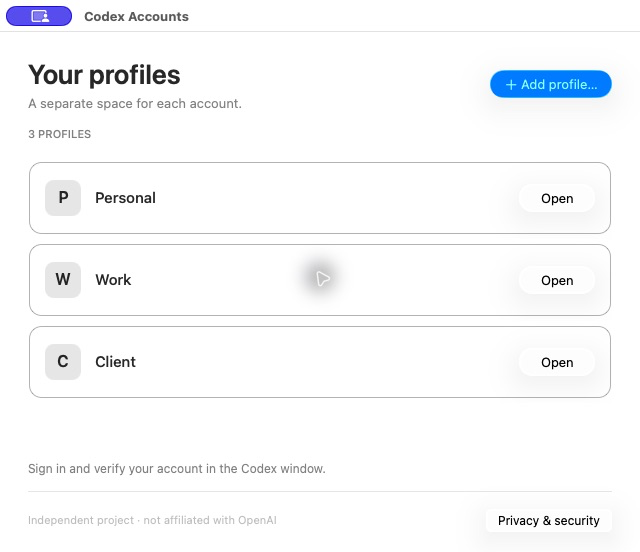
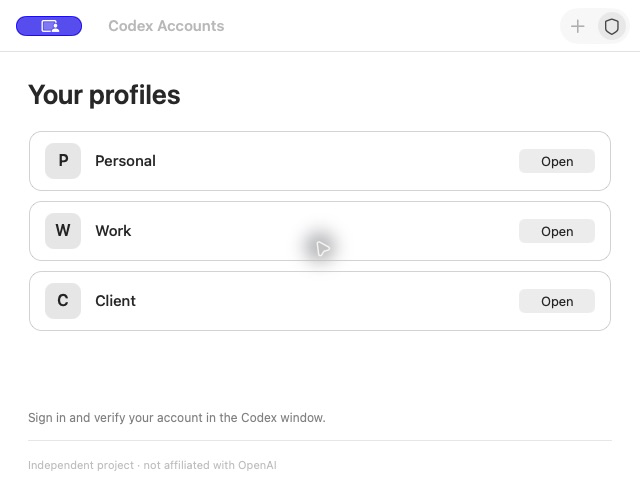
Use a native Liquid Glass toolbar for profile actions

diff --git a/Sources/main.swift b/Sources/main.swift
@@ -9,7 +9,11 @@ final class ProfileCardView: NSView {
         let path = NSBezierPath(roundedRect: bounds.insetBy(dx: 0.5, dy: 0.5), xRadius: 12, yRadius: 12)
         NSColor.controlBackgroundColor.setFill()
         path.fill()
-        NSColor.separatorColor.withAlphaComponent(0.55).setStroke()
+        if #available(macOS 26.0, *) {
+            NSColor.separatorColor.withAlphaComponent(0.32).setStroke()
+        } else {
+            NSColor.separatorColor.withAlphaComponent(0.55).setStroke()
+        }
         path.lineWidth = 0.5
         path.stroke()
     }
@@ -21,7 +25,7 @@ final class ProfileCardView: NSView {
 }
 
 @MainActor
-final class AppDelegate: NSObject, NSApplicationDelegate, NSTableViewDataSource, NSTableViewDelegate {
+final class AppDelegate: NSObject, NSApplicationDelegate, NSTableViewDataSource, NSTableViewDelegate, NSToolbarDelegate {
     var window: NSWindow!
     let table = NSTableView()
     let status = NSTextField(wrappingLabelWithString: "")
@@ -31,6 +35,9 @@ final class AppDelegate: NSObject, NSApplicationDelegate, NSTableViewDataSource,
         didSet { updateControls() }
     }
     let addButton = NSButton()
+    private let addItemID = NSToolbarItem.Identifier("addProfile")
+    private let privacyItemID = NSToolbarItem.Identifier("privacy")
+    private weak var addToolbarItem: NSToolbarItem?
     let countLabel = NSTextField(labelWithString: "")
     let emptyState = NSStackView()
 
@@ -67,11 +74,6 @@ final class AppDelegate: NSObject, NSApplicationDelegate, NSTableViewDataSource,
         addButton.imagePosition = .imageLeading
         addButton.bezelStyle = .rounded
         addButton.controlSize = .large
-        if #available(macOS 26.0, *) {
-            addButton.bezelStyle = .glass
-            addButton.bezelColor = .controlAccentColor
-            addButton.tintProminence = .primary
-        }
         addButton.target = self
         addButton.action = #selector(addProfile)
         addButton.setAccessibilityLabel("Add a new profile")
@@ -127,10 +129,6 @@ final class AppDelegate: NSObject, NSApplicationDelegate, NSTableViewDataSource,
         privacy.bezelStyle = .inline
         privacy.isBordered = false
         privacy.font = .systemFont(ofSize: 12)
-        if #available(macOS 26.0, *) {
-            privacy.isBordered = true
-            privacy.bezelStyle = .glass
-        }
         let independent = NSTextField(labelWithString: "Independent project · not affiliated with OpenAI")
         independent.textColor = .tertiaryLabelColor
         independent.font = .systemFont(ofSize: 11)
@@ -139,6 +137,19 @@ final class AppDelegate: NSObject, NSApplicationDelegate, NSTableViewDataSource,
         let separator = NSBox()
         separator.boxType = .separator
         let stack = NSStackView(views: [header, countLabel, scroll, status, separator, footer])
+        if #available(macOS 26.0, *) {
+            let toolbar = NSToolbar(identifier: "Profile actions")
+            toolbar.delegate = self
+            toolbar.displayMode = .iconOnly
+            window.toolbarStyle = .unified
+            window.toolbar = toolbar
+            addButton.isHidden = true
+            privacy.isHidden = true
+            subtitle.isHidden = true
+            countLabel.isHidden = true
+            table.rowHeight = 64
+            window.setContentSize(NSSize(width: 640, height: 440))
+        }
         stack.orientation = .vertical
         stack.alignment = .leading
         stack.spacing = 16
@@ -162,6 +173,37 @@ final class AppDelegate: NSObject, NSApplicationDelegate, NSTableViewDataSource,
     }
 
     func applicationShouldTerminateAfterLastWindowClosed(_ sender: NSApplication) -> Bool { true }
+
+    func toolbarAllowedItemIdentifiers(_ toolbar: NSToolbar) -> [NSToolbarItem.Identifier] {
+        [.flexibleSpace, addItemID, privacyItemID]
+    }
+
+    func toolbarDefaultItemIdentifiers(_ toolbar: NSToolbar) -> [NSToolbarItem.Identifier] {
+        toolbarAllowedItemIdentifiers(toolbar)
+    }
+
+    func toolbar(_ toolbar: NSToolbar, itemForItemIdentifier itemIdentifier: NSToolbarItem.Identifier,
+                 willBeInsertedIntoToolbar flag: Bool) -> NSToolbarItem? {
+        let item = NSToolbarItem(itemIdentifier: itemIdentifier)
+        item.target = self
+        switch itemIdentifier {
+        case addItemID:
+            item.label = "Add profile"
+            item.image = NSImage(systemSymbolName: "plus", accessibilityDescription: "Add profile")
+            item.action = #selector(addProfile)
+            item.autovalidates = false
+            item.isEnabled = !busy
+            addToolbarItem = item
+        case privacyItemID:
+            item.label = "Privacy & security"
+            item.image = NSImage(systemSymbolName: "shield", accessibilityDescription: "Privacy & security")
+            item.action = #selector(showPrivacy)
+        default:
+            return nil
+        }
+        item.toolTip = item.label
+        return item
+    }
     func numberOfRows(in tableView: NSTableView) -> Int { profiles.count }
     func selectionShouldChange(in tableView: NSTableView) -> Bool { false }
 
@@ -200,7 +242,7 @@ final class AppDelegate: NSObject, NSApplicationDelegate, NSTableViewDataSource,
         open.bezelStyle = .rounded
         open.controlSize = .large
         if #available(macOS 26.0, *) {
-            open.bezelStyle = .glass
+            open.controlSize = .regular
         }
         open.identifier = NSUserInterfaceItemIdentifier(profile.id.uuidString)
         open.setAccessibilityLabel("Open \(profile.name) in Codex")
@@ -228,6 +270,7 @@ final class AppDelegate: NSObject, NSApplicationDelegate, NSTableViewDataSource,
 
     func updateControls() {
         addButton.isEnabled = !busy
+        addToolbarItem?.isEnabled = !busy
         table.reloadData()
     }
 

diff --git a/scripts/showcase-scene.swift b/scripts/showcase-scene.swift
@@ -92,6 +92,10 @@ MainActor.assumeIsolated {
     checks += 1
     delegate.busy = true
     precondition(!delegate.addButton.isEnabled && !rowButton(0).isEnabled, "Disable launch/add while busy.")
+    if #available(macOS 26.0, *) {
+        let add = delegate.window.toolbar?.items.first { $0.itemIdentifier.rawValue == "addProfile" }
+        precondition(add?.isEnabled == false, "Disable the toolbar Add profile action while busy.")
+    }
     checks += 1
     delegate.busy = false
     delegate.profiles = []

diff --git a/README.md b/README.md
@@ -9,17 +9,17 @@
   <img src="assets/badge-macos.svg" alt="macOS 13 or later · universal binary">
 </p>
 <p align="center">
-  <a href="https://github.com/dngns/codex-accounts/releases/tag/v0.1.6-preview.1"><img src="assets/download.svg" width="256" alt="Download macOS preview"></a>
+  <a href="https://github.com/dngns/codex-accounts/releases/tag/v0.1.7-preview.1"><img src="assets/download.svg" width="256" alt="Download macOS preview"></a>
 </p>
 <p align="center">
   <a href="#get-started">Get started</a> · <a href="#your-login-stays-with-the-official-app">Privacy</a> · <a href="docs/TECHNICAL.md">Technical docs</a> · <a href="docs/README.vi.md">Tiếng Việt</a>
 </p>
 
 > [!IMPORTANT]
-> **Experimental preview · independent of OpenAI.** The download is not notarized and macOS may block it. [Read the release notes](https://github.com/dngns/codex-accounts/releases/tag/v0.1.6-preview.1) before downloading. Do not disable Gatekeeper to run it.
+> **Experimental preview · independent of OpenAI.** The download is not notarized and macOS may block it. [Read the release notes](https://github.com/dngns/codex-accounts/releases/tag/v0.1.7-preview.1) before downloading. Do not disable Gatekeeper to run it.
 
 ![Codex Accounts on macOS 26 with Liquid Glass controls and three example profiles](assets/profile-ui-liquid-glass.png)
-<p align="center"><sub>Version 0.1.6 on macOS 26.2 in Light Mode, with example profiles.</sub></p>
+<p align="center"><sub>Version 0.1.7 on macOS 26.2 in Light Mode, with example profiles.</sub></p>
 
 ### Personal. Work. Client. One small launcher.
 
@@ -29,14 +29,14 @@ Keep a separate place for each account without repeatedly swapping the default p
 | :--- | :--- | :--- |
 | A dedicated Codex home and desktop data folder for every profile. | Use the official OpenAI sign-in flow. The launcher has no password form. | Native Swift app. No Node, Python, Homebrew, or Terminal needed to use a packaged build. |
 
-On macOS 26 and later, Add profile, Open, and Privacy & security use native Liquid Glass controls. macOS 13 through 15 use standard AppKit controls.
+On macOS 26 and later, the native Liquid Glass toolbar groups Add profile (+) and Privacy & security. Each profile has its own Open button. macOS 13 through 15 use standard AppKit controls.
 
 ## Get started
 
 ![Three steps: name a profile, open it, then sign in through the official app](assets/quickstart.png)
 
 1. **Install the official Codex desktop app** from OpenAI, then download and unzip this launcher.
-2. **Add a profile** such as Personal or Work. Click **Open** beside the profile you want to use.
+2. Use **Add profile** (the + button on macOS 26) to create a profile such as Personal or Work. Click **Open** beside the profile you want to use.
 3. **Sign in inside the official app.** Verify the email and workspace, then repeat for another account. Sign in to new profiles one at a time.
 
 You can move **Codex Accounts.app** into Applications. This launcher does not import or change your existing default account.
@@ -45,8 +45,8 @@ You can move **Codex Accounts.app** into Applications. This launcher does not im
 
 | Package | Platform | Download |
 | :--- | :--- | :--- |
-| **0.1.6 Preview · Universal ZIP** | macOS 13+ · Apple Silicon and Intel build targets | [Download app](https://github.com/dngns/codex-accounts/releases/download/v0.1.6-preview.1/Codex-Accounts-preview-universal.zip) |
-| **SHA-256 checksums** | Verify archive integrity | [Download SHA256SUMS](https://github.com/dngns/codex-accounts/releases/download/v0.1.6-preview.1/SHA256SUMS) |
+| **0.1.7 Preview · Universal ZIP** | macOS 13+ · Apple Silicon and Intel build targets | [Download app](https://github.com/dngns/codex-accounts/releases/download/v0.1.7-preview.1/Codex-Accounts-preview-universal.zip) |
+| **SHA-256 checksums** | Verify archive integrity | [Download SHA256SUMS](https://github.com/dngns/codex-accounts/releases/download/v0.1.7-preview.1/SHA256SUMS) |
 
 **Before you install:** the official Codex app is required. This preview is ad-hoc signed, not Developer ID signed or notarized. Intel runtime, full multi-account login, and clean-Mac download acceptance are still pending. [Validation record →](VALIDATION.md)
 

diff --git a/RELEASE_NOTES.md b/RELEASE_NOTES.md
@@ -1,8 +1,8 @@
 <p align="center">
   <img src="https://raw.githubusercontent.com/dngns/codex-accounts/main/assets/AppIcon.png" width="80" alt="Codex Accounts icon">
 </p>
-<h2 align="center">Native Liquid Glass controls</h2>
-<p align="center">Codex Accounts 0.1.6 Preview · Native macOS launcher · Independent of OpenAI</p>
+<h2 align="center">A cleaner Liquid Glass toolbar</h2>
+<p align="center">Codex Accounts 0.1.7 Preview · Native macOS launcher · Independent of OpenAI</p>
 
 
 ## Download for macOS
@@ -11,8 +11,8 @@ One universal app package for Apple Silicon and Intel build targets. Requires ma
 
 | File | For | Download |
 | :--- | :--- | :--- |
-| **Codex Accounts.app · ZIP** | Use the launcher | [Download universal preview](https://github.com/dngns/codex-accounts/releases/download/v0.1.6-preview.1/Codex-Accounts-preview-universal.zip) |
-| **SHA256SUMS** | Verify archive integrity | [Download checksums](https://github.com/dngns/codex-accounts/releases/download/v0.1.6-preview.1/SHA256SUMS) |
+| **Codex Accounts.app · ZIP** | Use the launcher | [Download universal preview](https://github.com/dngns/codex-accounts/releases/download/v0.1.7-preview.1/Codex-Accounts-preview-universal.zip) |
+| **SHA256SUMS** | Verify archive integrity | [Download checksums](https://github.com/dngns/codex-accounts/releases/download/v0.1.7-preview.1/SHA256SUMS) |
 
 > [!IMPORTANT]
 > **Preview, not notarized.** This package is ad-hoc signed, not Developer ID signed. macOS may block the download. Keep Gatekeeper enabled; do not remove quarantine to run it. A frictionless downloaded double-click release is still pending.
@@ -25,10 +25,11 @@ One universal app package for Apple Silicon and Intel build targets. Requires ma
 2. Choose **Add profile**, enter a label, then click **Open** beside that profile.
 3. Sign in through the official app and verify the email/workspace. Repeat for another account, one sign-in at a time.
 
-## What's new in 0.1.6
+## What's new in 0.1.7
 
-- **Liquid Glass on macOS 26 and later.** Add profile, the per-profile Open buttons, and Privacy & security use the system glass material. Add profile uses your system accent color.
-- **macOS 13–15 support.** The same controls use their standard AppKit styles on older releases.
+- **Native Liquid Glass toolbar.** Add profile and Privacy & security are grouped beside the window title.
+- **Clearer profile actions.** Profile rows are more compact on macOS 26, with readable Open buttons and lighter outlines.
+- **macOS 13–15 support.** On earlier systems, Add profile appears in the header and Privacy & security appears in the footer.
 
 The launcher still creates separate profile folders, verifies the selected official app's signature, and leaves authentication to that app. It has no built-in networking, telemetry, password form, or token import.
 
@@ -52,4 +53,4 @@ The showcase is a source-derived native UI render with fixture labels, not proof
 
 ---
 
-[Source at this version](https://github.com/dngns/codex-accounts/tree/v0.1.6-preview.1) · [Changes since 0.1.5](https://github.com/dngns/codex-accounts/compare/v0.1.5-preview.1...v0.1.6-preview.1) · [Security](https://github.com/dngns/codex-accounts/blob/main/SECURITY.md) · [Licensing](https://github.com/dngns/codex-accounts/blob/main/LICENSING.md) · [Validation](https://github.com/dngns/codex-accounts/blob/main/VALIDATION.md)
+[Source at this version](https://github.com/dngns/codex-accounts/tree/v0.1.7-preview.1) · [Changes since 0.1.6](https://github.com/dngns/codex-accounts/compare/v0.1.6-preview.1...v0.1.7-preview.1) · [Security](https://github.com/dngns/codex-accounts/blob/main/SECURITY.md) · [Licensing](https://github.com/dngns/codex-accounts/blob/main/LICENSING.md) · [Validation](https://github.com/dngns/codex-accounts/blob/main/VALIDATION.md)

diff --git a/docs/README.vi.md b/docs/README.vi.md
@@ -1,30 +1,30 @@
 # Codex Accounts
 
-[English](../README.md) · [Tải bản preview](https://github.com/dngns/codex-accounts/releases/tag/v0.1.6-preview.1)
+[English](../README.md) · [Tải bản preview](https://github.com/dngns/codex-accounts/releases/tag/v0.1.7-preview.1)
 
 **Mỗi tài khoản một profile riêng.** Launcher nhỏ cho macOS, dùng cùng ứng dụng Codex chính thức.
 
 ![Codex Accounts trên macOS 26 với các nút Liquid Glass và ba profile mẫu](../assets/profile-ui-liquid-glass.png)
 
-*Bản 0.1.6 trên macOS 26.2 ở chế độ sáng, với các profile mẫu.*
+*Bản 0.1.7 trên macOS 26.2 ở chế độ sáng, với các profile mẫu.*
 
 > [!IMPORTANT]
 > Đây là bản thử nghiệm độc lập, không được OpenAI bảo trợ. App chưa được ký Developer ID hoặc notarize, nên macOS có thể chặn bản tải xuống. Không tắt Gatekeeper hoặc xóa quarantine để chạy bản thử.
 
-Trên macOS 26 trở lên, các nút Add profile, Open và Privacy & security dùng Liquid Glass của hệ thống. Trên macOS 13 đến 15, app dùng kiểu nút AppKit tiêu chuẩn.
+Trên macOS 26 trở lên, thanh công cụ Liquid Glass gom nút thêm profile (+) và quyền riêng tư. Mỗi profile có nút Open riêng. Trên macOS 13 đến 15, app dùng kiểu nút AppKit tiêu chuẩn.
 
 ## Bắt đầu trong 3 bước
 
 ![Đặt tên profile, mở profile và đăng nhập trong app chính thức](../assets/quickstart.png)
 
-1. Cài app Codex chính thức từ OpenAI. Tải và giải nén launcher từ [Releases](https://github.com/dngns/codex-accounts/releases/tag/v0.1.6-preview.1).
-2. Mở **Codex Accounts.app** → **Add profile**, đặt tên như Personal hoặc Work → nhấn **Open** cạnh profile đó.
+1. Cài app Codex chính thức từ OpenAI. Tải và giải nén launcher từ [Releases](https://github.com/dngns/codex-accounts/releases/tag/v0.1.7-preview.1).
+2. Mở **Codex Accounts.app** → **Add profile** (nút + trên macOS 26), đặt tên như Personal hoặc Work → nhấn **Open** cạnh profile đó.
 3. Đăng nhập trong app chính thức, kiểm tra email/workspace. Lặp lại cho tài khoản khác; đăng nhập lần lượt từng profile mới.
 
 | Tải về | Dành cho |
 | --- | --- |
-| [App dạng Universal ZIP](https://github.com/dngns/codex-accounts/releases/download/v0.1.6-preview.1/Codex-Accounts-preview-universal.zip) | macOS 13+; có binary Apple Silicon và Intel |
-| [SHA256SUMS](https://github.com/dngns/codex-accounts/releases/download/v0.1.6-preview.1/SHA256SUMS) | Kiểm tra tính toàn vẹn file tải xuống |
+| [App dạng Universal ZIP](https://github.com/dngns/codex-accounts/releases/download/v0.1.7-preview.1/Codex-Accounts-preview-universal.zip) | macOS 13+; có binary Apple Silicon và Intel |
+| [SHA256SUMS](https://github.com/dngns/codex-accounts/releases/download/v0.1.7-preview.1/SHA256SUMS) | Kiểm tra tính toàn vẹn file tải xuống |
 
 Intel runtime, toàn bộ luồng đăng nhập nhiều tài khoản và tải/mở trên máy Mac sạch vẫn cần kiểm thử thêm. Xem [ghi nhận kiểm thử](../VALIDATION.md).
 

diff --git a/THIRD_PARTY_NOTICES.md b/THIRD_PARTY_NOTICES.md
@@ -11,6 +11,6 @@ Inventory reviewed: 2026-11-12.
 | `actions/checkout` at `11bd71901bbe5b1630ceea73d27597364c9af683` | GitHub Actions checkout step | No; only referenced by the workflow | MIT, Copyright (c) 2018 GitHub, Inc. and contributors; [upstream full license](https://github.com/actions/checkout/blob/11bd71901bbe5b1630ceea73d27597364c9af683/LICENSE) |
 | Official Codex desktop app | Installed separately by the user; validated and launched | No executable, logo, SDK, or source from that app is bundled | OpenAI's own terms and trademarks, outside this project's MIT grant |
 
-The approved icon is AI-generated with the built-in OpenAI imagegen tool from a text-only brief; its exact source PNG is committed. No reference image or official brand asset was supplied. See `LICENSING.md` and `docs/ICON.md` for the provenance, prompt, source hash and license limits. The UI uses the macOS system font and a system-provided plus symbol through AppKit APIs; no font or symbol file is shipped. No third-party image, icon library, package manager dependency, or OpenAI logo is included in the current app archive.
+The approved icon is AI-generated with the built-in OpenAI imagegen tool from a text-only brief; its exact source PNG is committed. No reference image or official brand asset was supplied. See `LICENSING.md` and `docs/ICON.md` for the provenance, prompt, source hash and license limits. The UI uses the macOS system font and system-provided plus and shield symbols through AppKit APIs; no font or symbol file is shipped. No third-party image, icon library, package manager dependency, or OpenAI logo is included in the current app archive.
 
 This inventory is not an attempt to apply the project MIT license to Apple/OpenAI software or other third-party rights. Before adding or redistributing a new component, review its actual license, transitive dependencies, attribution and notice requirements, and trademark restrictions.

diff --git a/docs/SHOWCASE.md b/docs/SHOWCASE.md
@@ -2,7 +2,7 @@
 
 [Back to README](../README.md)
 
-The README uses [a live capture of the 0.1.6 fixture window](../assets/profile-ui-liquid-glass.png) on macOS 26.2 in Light Mode. It shows sample profile labels. Capture the live window when refreshing this image so the system composites the Liquid Glass material.
+The README uses [a live capture of the 0.1.7 fixture window](../assets/profile-ui-liquid-glass.png) on macOS 26.2 in Light Mode. It shows sample profile labels. Capture the live window when refreshing this image so the system composites the Liquid Glass material.
 
 `assets/showcase.png` is an **offscreen native UI render**, not a screenshot of real signed-in accounts. The Personal, Work, and Client names are fixture labels. No account is connected and no profile store is opened during rendering.
 
